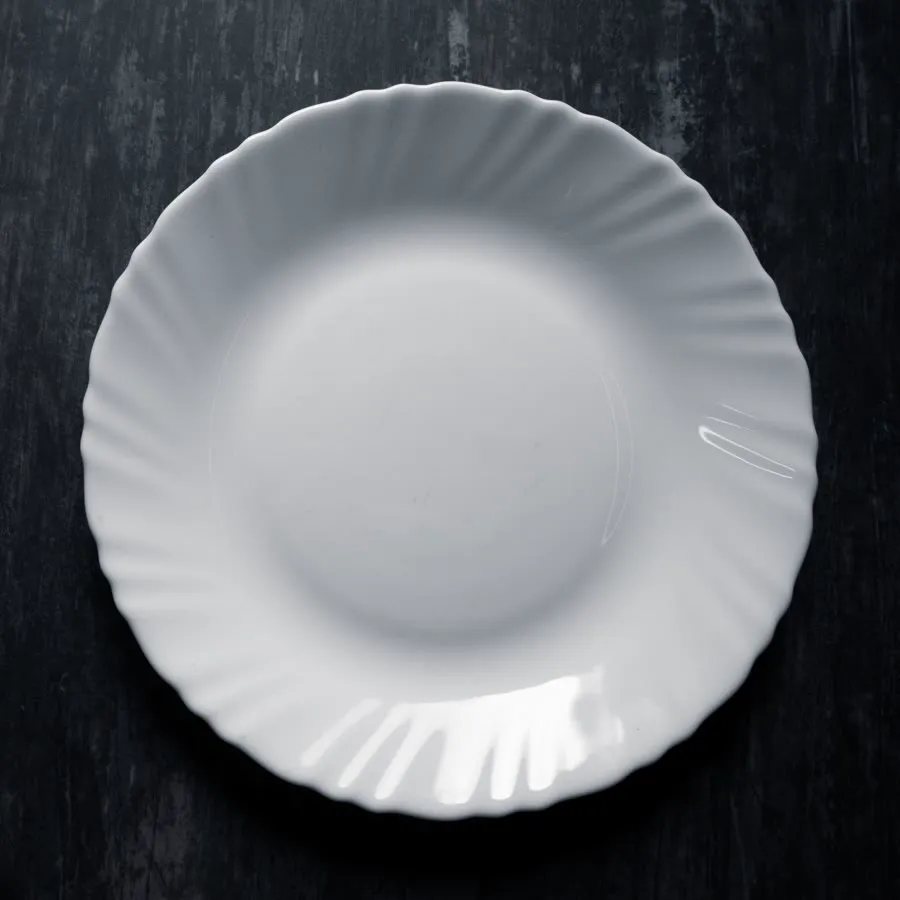
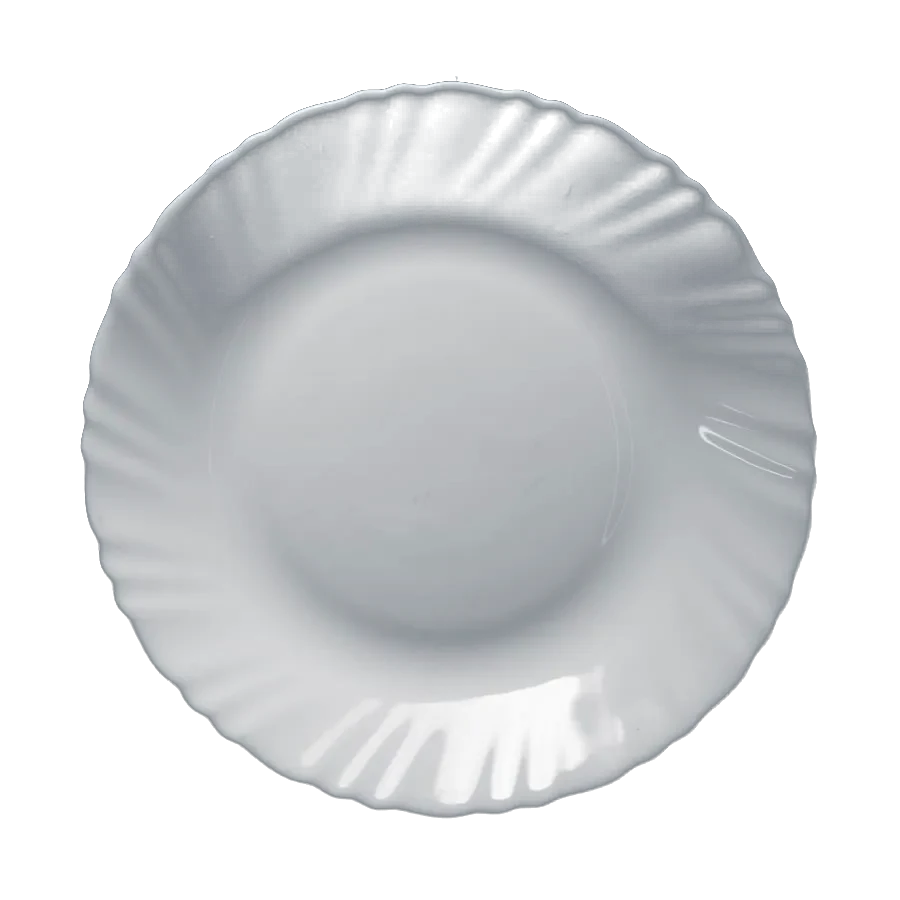
Pink misty forest behind every page under a blush veil; plate photo cut out from its dark wood table

diff --git a/sw.js b/sw.js
@@ -1,5 +1,5 @@
 // Offline cache for the app shell. Bump VERSION when shipping changes.
-const VERSION = 'uts-v434';
+const VERSION = 'uts-v435';
 const SHELL = ['./', './index.html', './styles.css', './manifest.json', './icons/icon-192.png', './icons/icon-512.png', './icons/apple-touch-icon.png', './icons/icon-64.png', './icons/icon-32.png', './icons/icon-maskable-512.png',
   './js/app.js', './js/data.js', './js/cycle.js', './js/icons.js', './js/cosmic.js', './js/figure.js', './js/figure3d.js', './js/torso.js', './js/torso3d.js', './js/photos.js', './js/seasonal.js', './js/molecules.js', './js/welcome3d.js', './js/sfx.js', './js/sun.js', './js/account.js', './js/config.js', './images/planet.jpg', './images/gate-rose.webp', './images/flower-menstrual.webp', './images/flower-follicular.webp', './images/flower-ovulatory.webp', './images/flower-luteal.webp', './images/period.png', './images/partner-cinema.webp', './images/sun-moon.webp', './images/rhythm-sun.webp', './images/inner-clock.webp', './images/move-stardust.mp4', './images/move-stardust.webp', './images/move-meditate.webp', './images/move-walk.webp', './images/move-yoga.webp', './images/move-sport.webp', './images/move-pilates.webp', './images/move-hiit.webp', './images/move-lift.webp', './images/season-veg.webp', './images/season-fruit.webp', './images/stress-meditate.mp4', './images/stress-meditate.webp', './images/stress-breathe.mp4', './images/stress-breathe.webp', './images/forest-path.jpg', './images/welcome-forest.jpg', './images/intro-forest.jpg', './images/tile-meditate.webp', './images/tile-walk.webp', './images/tile-yoga.webp', './images/tile-sport.webp', './images/tile-pilates.webp', './images/tile-hiit.webp', './images/tile-lift.webp', './images/purpose-body.jpg', './images/purpose-conceive.jpg', './images/period-food.webp', './images/plate.webp', './models/body2.glb'];
 

diff --git a/js/app.js b/js/app.js
@@ -1525,7 +1525,7 @@ function plateWheel(phase, season, sel, warm) {
     <mask id="pl-mask" maskContentUnits="objectBoundingBox"><rect width="1" height="1" fill="url(#pl-fade)"/></mask>
     <radialGradient id="pl-vol" gradientUnits="userSpaceOnUse" cx="${cx - 26}" cy="${cy - 32}" r="${R * 1.45}"><stop offset="0" stop-color="#fff" stop-opacity=".26"/><stop offset=".38" stop-color="#fff" stop-opacity="0"/><stop offset=".72" stop-color="#000" stop-opacity="0"/><stop offset="1" stop-color="#000" stop-opacity=".42"/></radialGradient>
     <filter id="pl-ds" x="-25%" y="-25%" width="150%" height="150%"><feDropShadow dx="0" dy="2" stdDeviation="1.6" flood-color="#000" flood-opacity=".38"/><feDropShadow dx="2" dy="9" stdDeviation="7" flood-color="#1b1f1b" flood-opacity=".42"/></filter></defs>
-    <image class="pl-photo" href="images/plate.webp" x="-21.6" y="-18.5" width="405" height="405" mask="url(#pl-mask)"/>
+    <image class="pl-photo" href="images/plate.webp" x="-21.6" y="-18.5" width="405" height="405"/>
     <circle cx="${cx}" cy="${cy}" r="${R + 6}" class="pl-well"/>
     <g filter="url(#pl-ds)">${segs}</g>${labels}</svg>`;
 }

diff --git a/styles.css b/styles.css
@@ -4649,3 +4649,9 @@ button.link::after, a.link::after, .cd-link::after { content: ''; position: abso
 .dot-word { display: block; width: 100%; height: auto; fill: #fbf8f9; filter: drop-shadow(0 0 6px rgba(255,255,255,.35)) drop-shadow(0 2px 10px rgba(40,40,50,.25)); opacity: 0; transition: opacity 1.4s ease; }
 .dot-word.fit { opacity: 1; }
 @media (prefers-reduced-motion: reduce) { .dot-word { transition: none; } }
+
+/* Every page sits in the misty pink forest (same as the intro screens), under a soft blush veil */
+.phone { background:
+  linear-gradient(180deg, hsl(calc(var(--hb) + 0 * var(--hk)) calc(38% * var(--hs)) 86% / .5) 0%, hsl(calc(var(--hb) + 0 * var(--hk)) calc(30% * var(--hs)) 84% / .62) 45%, hsl(calc(var(--hb) + 0 * var(--hk)) calc(26% * var(--hs)) 82% / .72) 100%),
+  url('images/intro-forest.jpg') center / cover no-repeat, var(--page) !important; }
+.home .hub { background: transparent; }
